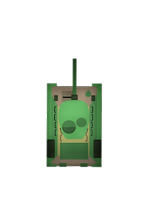
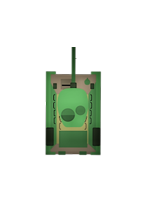
shot bullet and class box

Changed region(s): [[0.3099, 0.1991, 0.7324, 0.7962]]

diff --git a/War of Tanks/tankLib/core/src/com/mygdx/game/GameScreen.java b/War of Tanks/tankLib/core/src/com/mygdx/game/GameScreen.java
@@ -1,5 +1,8 @@
 package com.mygdx.game;
 
+import java.util.ArrayList;
+import java.util.List;
+
 import com.badlogic.gdx.Gdx;
 import com.badlogic.gdx.Input.Keys;
 import com.badlogic.gdx.ScreenAdapter;
@@ -22,21 +25,33 @@ public class GameScreen extends ScreenAdapter {
 	private int x;
 	private int y;
 	private Bullet1 bullet1;
+	private List<Bullet1> bullet1List;
 	private Bullet2 bullet2;
+	private List<Bullet2> bullet2List;
+	private Box box1;
+	private Box2 box2;
+	private boolean bullet1IsRemove = true;
+	private boolean bullet2IsRemove = true;
 	
 	public GameScreen(TankGame tankGame) {
         this.tankGame = tankGame;
         tankImg1 = new Texture("player.png");
         tankImg2 = new Texture("player2.png");
-        bulletImg1 = new Texture("pacman.png");
-        bulletImg2 = new Texture("pacman.png");
-        boxImg = new Texture("box.png");
+        bulletImg1 = new Texture("rocket.png");
+        bulletImg2 = new Texture("rocket2.png");
+        boxImg = new Texture("box2.png");
         world = new World(tankGame);
         player1 = world.getPlayer1();
         player2 = world.getPlayer2();
+        box1 = world.getBox1();
+        box2 = world.getBox2();
         background = new Texture("background.jpg");
         bullet1 = new Bullet1(player1);
         bullet2 = new Bullet2(player2);
+        bullet1List = new ArrayList();
+		bullet1List.add(bullet1);
+		bullet2List = new ArrayList();
+		bullet2List.add(bullet2);
         
     }
 	
@@ -48,12 +63,22 @@ public class GameScreen extends ScreenAdapter {
 		 SpriteBatch batch = tankGame.batch;
 	     batch.begin();
 	     batch.draw(background, 0, 0);
-	     Vector2 pos_player1 = player1.getPosition();
-	     batch.draw(tankImg1, pos_player1.x, pos_player1.y);
-	     Vector2 pos_player2 = player2.getPosition();
-	     batch.draw(tankImg2, pos_player2.x, pos_player2.y);
-	     batch.draw(bulletImg1,bullet1.getPosition().x,bullet1.getPosition().y);
-	     batch.draw(bulletImg2,bullet2.getPosition().x,bullet2.getPosition().y);
+	     Vector2 posPlayer1 = player1.getPosition();
+	     batch.draw(tankImg1, posPlayer1.x, posPlayer1.y);
+	     Vector2 posPlayer2 = player2.getPosition();
+	     Vector2 posBox1 = box1.getPosition();
+	     Vector2 posBox2 = box2.getPosition();
+	     batch.draw(tankImg2, posPlayer2.x, posPlayer2.y);
+	     for(int i = 0; i < bullet1List.size(); i++) {
+	    	if(bullet1IsRemove == false)
+	    		batch.draw(bulletImg1,bullet1List.get(i).getPosition().x,bullet1List.get(i).getPosition().y);
+	        }
+	     for(int i = 0; i < bullet2List.size(); i++) {
+	    	if(bullet2IsRemove == false)
+	    		batch.draw(bulletImg2,bullet2List.get(i).getPosition().x,bullet2List.get(i).getPosition().y);
+	        }
+	     batch.draw(boxImg,box1.getPosition().x,box1.getPosition().y);
+	     batch.draw(boxImg,box2.getPosition().x,box2.getPosition().y);
 	     batch.end();
 	 }
 	 
@@ -84,14 +109,34 @@ public class GameScreen extends ScreenAdapter {
 			 if(Gdx.input.isKeyPressed(Keys.DOWN)) {
 				 player2.move(player2.DIRECTION_DOWN);
 			 }
-			 if(Gdx.input.isKeyJustPressed(Keys.F)) {		
-				 bullet1.setCheck(1);
+			 if (bullet1IsRemove == true) {
+				 if(Gdx.input.isKeyJustPressed(Keys.F)) {		
+					 bullet1List.get(bullet1List.size()-1).setCheck(1);
+					 bullet1List.add(new Bullet1(player1));
+					 bullet1IsRemove = false;
+				 }
 			 }
-			 if(Gdx.input.isKeyJustPressed(Keys.L)) {		
-				 bullet2.setCheck(1);
+			 if (bullet1IsRemove == true) {
+				 if(Gdx.input.isKeyJustPressed(Keys.L)) {		
+					 bullet2List.get(bullet2List.size()-1).setCheck(1);
+					 bullet2List.add(new Bullet2(player2));
+				 }
 			 }
-			 bullet1.update();
-			 bullet2.update();
+			 for(int i=0;i<bullet1List.size();i++) {
+					bullet1List.get(i).update();
+					if(bullet1List.get(i).getPosition().y>1024) {
+						bullet1List.remove(i);
+						bullet1IsRemove = true;
+					}
+				}
+			 
+			 for(int i=0;i<bullet2List.size();i++) {
+					bullet2List.get(i).update();
+					if(bullet2List.get(i).getPosition().y>0) {
+						bullet2List.remove(i);
+						bullet2IsRemove = true;
+					}
+				}
 		 }
 	 }
 	

diff --git a/War of Tanks/tankLib/core/src/com/mygdx/game/World.java b/War of Tanks/tankLib/core/src/com/mygdx/game/World.java
@@ -3,6 +3,8 @@ package com.mygdx.game;
 public class World {
 	private Player1 player1;
 	private Player2 player2;
+	private Box box1;
+	private Box2 box2;
 	private TankGame tankGame;
 	
 	World(TankGame tankGame){
@@ -10,6 +12,8 @@ public class World {
 		
 		player1 = new Player1(512,100);
 		player2 = new Player2(512,850);
+		box1 = new Box();
+		box2 = new Box2();
 	}
 	Player1 getPlayer1() {
 		return player1;
@@ -18,4 +22,13 @@ public class World {
 	Player2 getPlayer2() {
 		return player2;
 	}
+	
+	Box getBox1() {
+		return box1;
+	}
+	
+	Box2 getBox2() {
+		return box2;
+	}
+	
 }

diff --git a/War of Tanks/tankLib/core/src/com/mygdx/game/Bullet1.java b/War of Tanks/tankLib/core/src/com/mygdx/game/Bullet1.java
@@ -8,7 +8,7 @@ public class Bullet1 {
 	private Player1 player1;
 	
 	public Bullet1(Player1 player1) {
-		this.player1 = player1;
+		this.player1 = player1; 
 		position = new Vector2(player1.getPosition().x,player1.getPosition().y);
 	}
 	public Vector2 getPosition() {
@@ -20,7 +20,9 @@ public class Bullet1 {
 	public void update() {
 		if(check == 1)
 			position.y+=10;
-		else
-			position.x =  player1.getPosition().x;
+		else {
+			position.x =  player1.getPosition().x+50;
+			position.y =  player1.getPosition().y+90;
+		} 
 	}
 }

diff --git a/War of Tanks/tankLib/core/src/com/mygdx/game/Box2.java b/War of Tanks/tankLib/core/src/com/mygdx/game/Box2.java
@@ -4,7 +4,7 @@ import java.util.Random;
 
 import com.badlogic.gdx.math.Vector2;
 
-public class Box {
+public class Box2 {
 	private Vector2 position;
 	private Random ranX = new Random();
 	private Random ranY = new Random();
@@ -14,10 +14,10 @@ public class Box {
 	}
 	
 	public int ranPosY() {
-		return ranY.nextInt(312)+200;
+		return ranY.nextInt(300)+500;
 	}
 	
-	public Box() {
+	public Box2() {
 		position = new Vector2(ranPosX(),ranPosY());
 	}
 	
@@ -25,3 +25,4 @@ public class Box {
 		return position;
 	}
 }
+

diff --git a/War of Tanks/tankLib/core/src/com/mygdx/game/Player2.java b/War of Tanks/tankLib/core/src/com/mygdx/game/Player2.java
@@ -11,7 +11,7 @@ public class Player2 {
         {0,1},
         {-1,0}
     };
-    public static final int SPEED = 10;
+    public static final int SPEED = 5;
     public static final int DIRECTION_LEFT = 4;
     public static final int DIRECTION_UP = 3;
     public static final int DIRECTION_RIGHT = 2;

diff --git a/War of Tanks/tankLib/core/src/com/mygdx/game/Player1.java b/War of Tanks/tankLib/core/src/com/mygdx/game/Player1.java
@@ -11,7 +11,7 @@ public class Player1 {
 	        {0,1},
 	        {-1,0}
 	    };
-	public static final int SPEED = 10;
+	public static final int SPEED = 5;
 	public static final int DIRECTION_LEFT = 4;
 	public static final int DIRECTION_UP = 3;
 	public static final int DIRECTION_RIGHT = 2;

diff --git a/War of Tanks/tankLib/core/src/com/mygdx/game/Bullet2.java b/War of Tanks/tankLib/core/src/com/mygdx/game/Bullet2.java
@@ -20,7 +20,9 @@ public class Bullet2 {
 	public void update() {
 		if(check == 1)
 			position.y -= 10;
-		else
-			position.x =  player2.getPosition().x;
+		else {
+			position.x =  player2.getPosition().x+50;
+			position.y =  player2.getPosition().y+90;
+		}
 	}
 }
